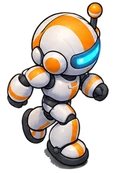
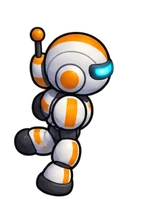
robik

diff --git a/robik2/js/art.js b/robik2/js/art.js
@@ -6,7 +6,7 @@ const Art = {
     'drock2', 'drone', 'empcell', 'gate', 'gem', 'heal_pad', 'keycard', 'medkit', 'mine', 'nest', 'palm', 'pillar', 'pillar_broken', 'pine',
     'player_body', 'player_gun', 'pod', 'pylon', 'rock1', 'rock2', 'rock3', 'spitter', 'tex_dirt', 'tex_grass', 'tex_metal', 'tex_rock',
     'tex_sand', 'tex_stone', 'tex_water', 'tower', 'tree1', 'tree2', 'tree3', 'turret_base', 'turret_gun',
-    ...['s', 'se', 'e', 'ne', 'n'].flatMap((d) => ['idle', 0, 1, 2, 3, 4, 5].map((f) => `pl_${d}_${f}`))],
+    ...['s', 'se', 'e', 'ne', 'n'].flatMap((d) => ['idle', 0, 1, 2, 3, 4, 5, 6, 7, 8, 9, 10, 11].map((f) => `pl_${d}_${f}`))],
   img: {}, cache: {}, ready: false,
 
   load(done) {

diff --git a/robik2/js/player.js b/robik2/js/player.js
@@ -409,8 +409,8 @@ const Player = {
     const [dir, flip] = this.facing(p.aim);
     let frame = 'idle', bob = Math.sin(G.time * 3) * 0.8;
     if (p.moving) {
-      let f = Math.floor(p.runDist / 15) % 6;
-      if (p.vx * Math.cos(p.aim) + p.vy * Math.sin(p.aim) < -0.3 * Math.hypot(p.vx, p.vy)) f = 5 - f; // backpedal
+      let f = Math.floor(p.runDist / 8) % 12;
+      if (p.vx * Math.cos(p.aim) + p.vy * Math.sin(p.aim) < -0.3 * Math.hypot(p.vx, p.vy)) f = 11 - f; // backpedal
       frame = f; bob = 0;
     }
     const name = `pl_${dir}_${frame}`;
